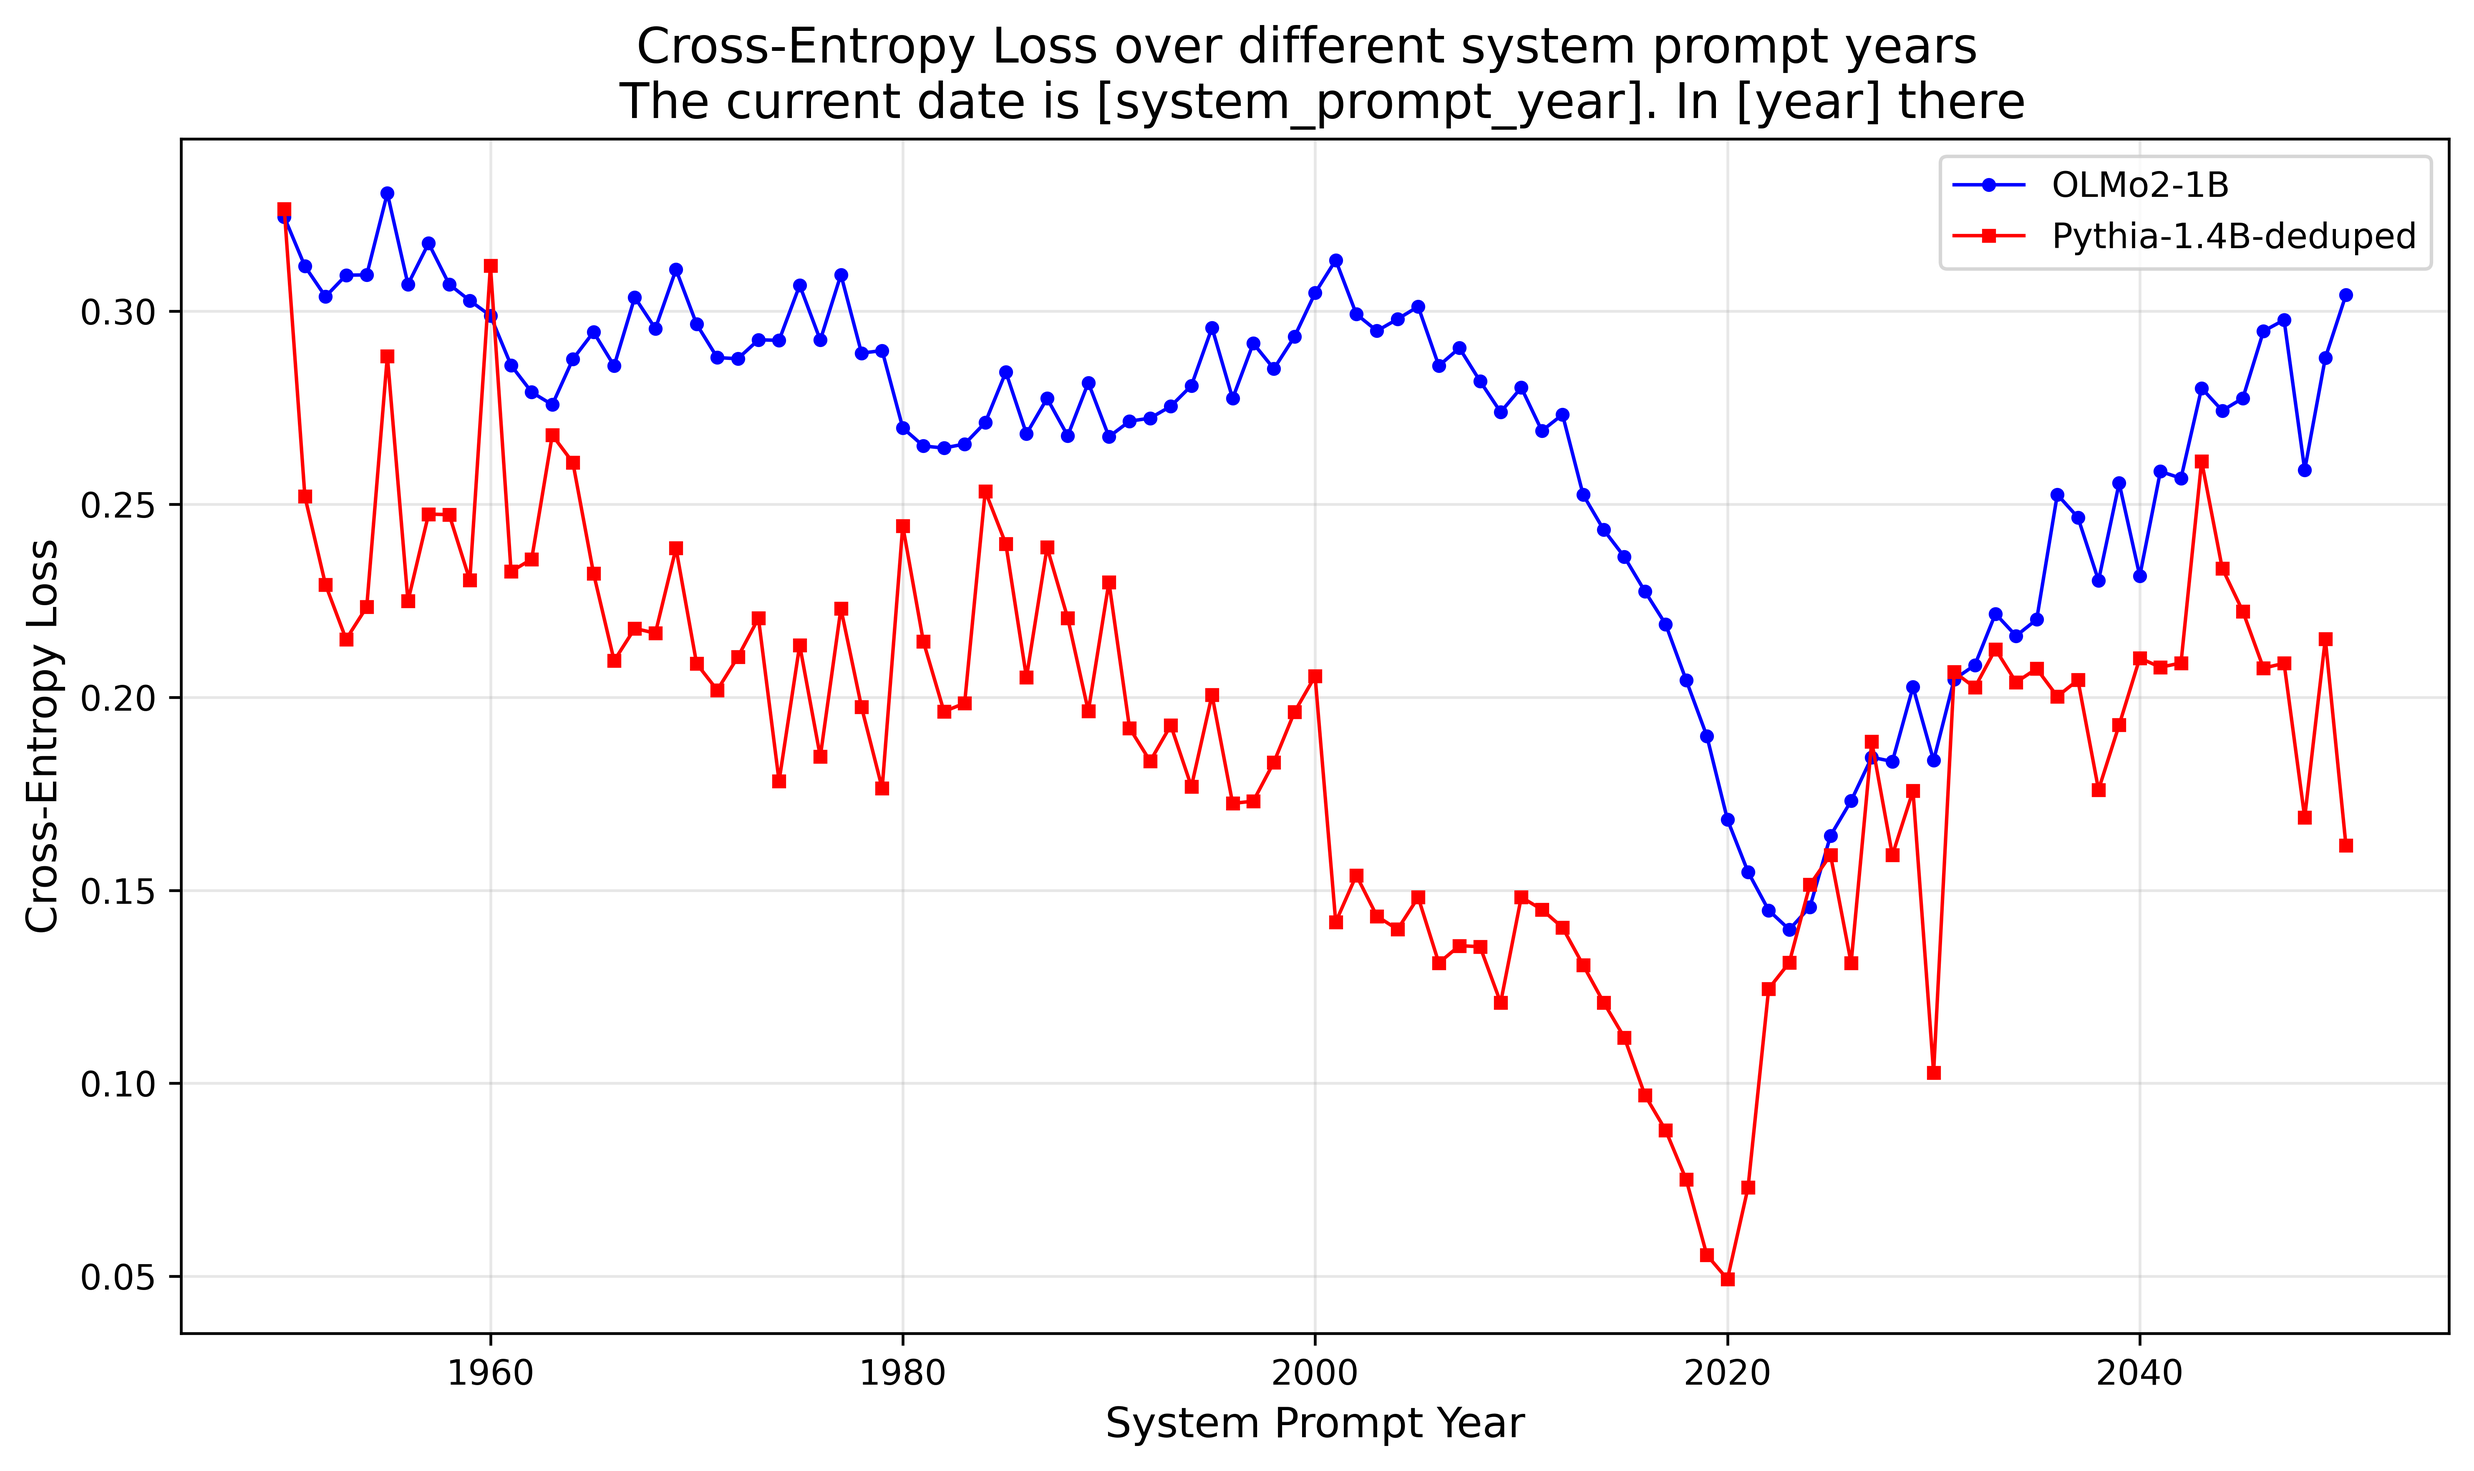
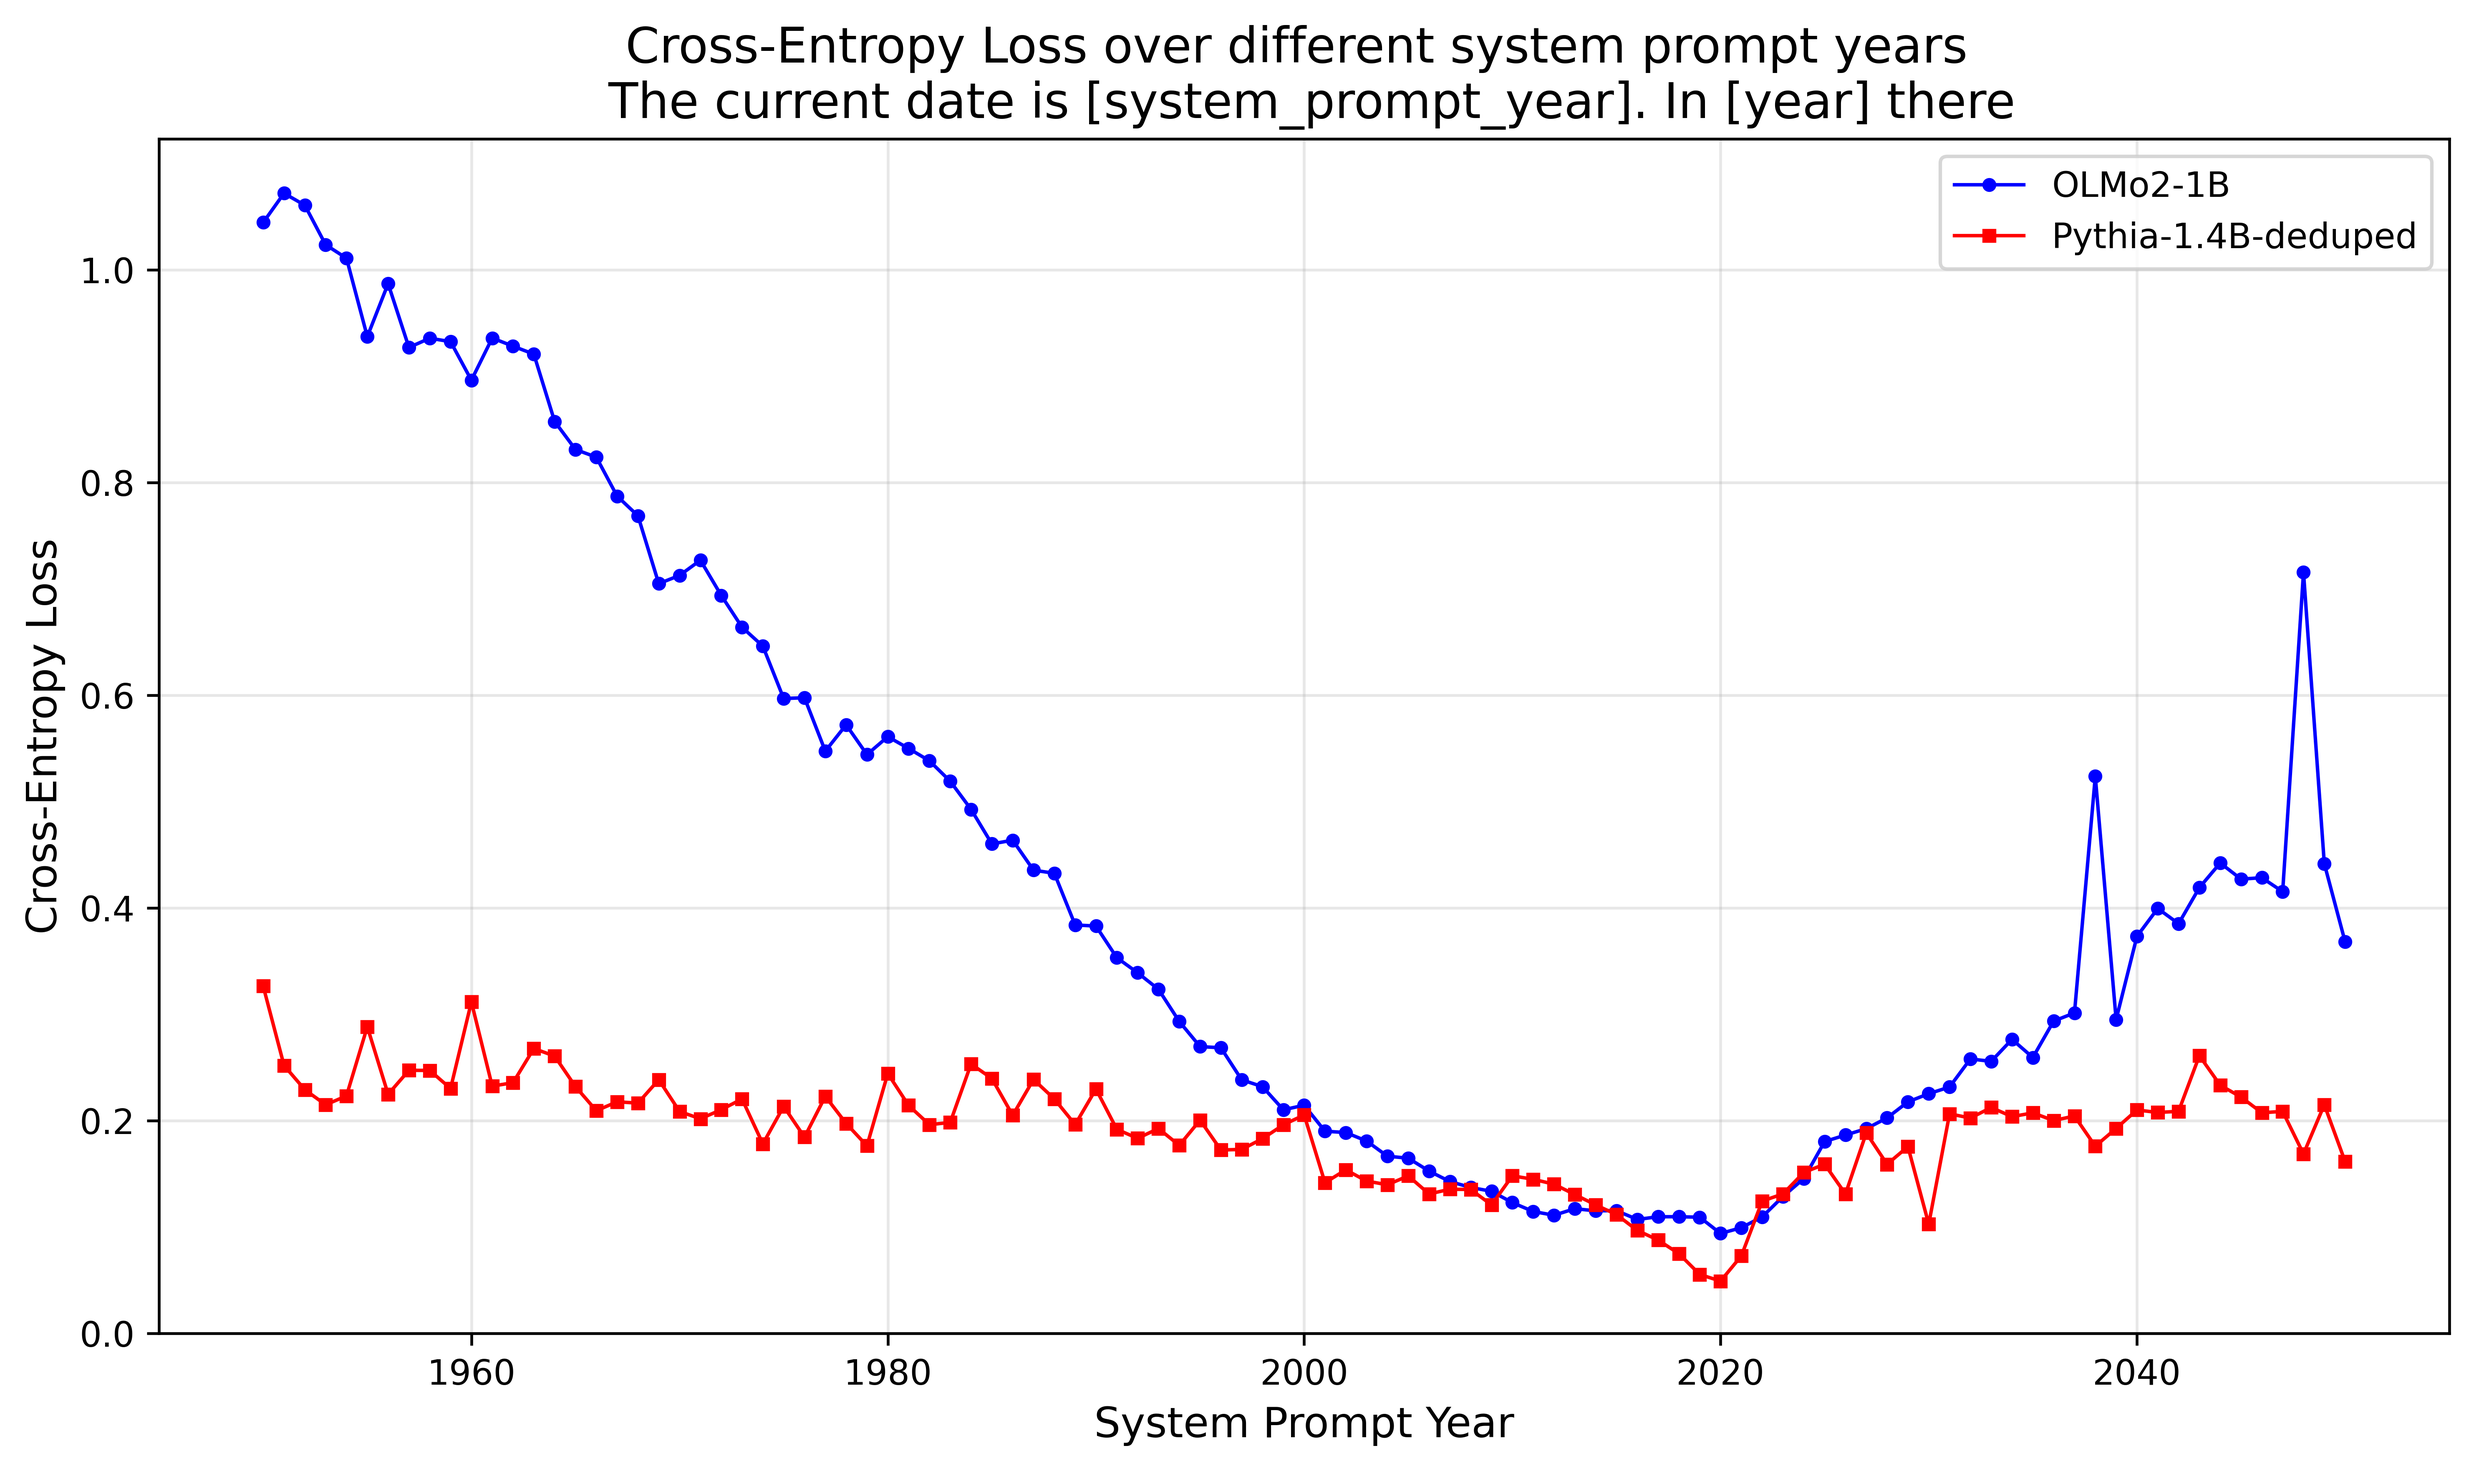
fixed CE over system prompts code

diff --git a/analyzer_class.py b/analyzer_class.py
@@ -368,28 +368,30 @@ class AnalyzerClass:
             results_absolute[cp] = year_to_counts_absolute
         return results_absolute
 
+    def populate_gold_distribution(self, cutoff):
+        gold_per_year = {}
+        for year in range(TOTAL_YEARS[0], TOTAL_YEARS[1]):
+            year_dist = {}
+            if year < cutoff:
+                year_dist = {"past": 1.0, "presfut": 0.0}
+            if year > cutoff:
+                year_dist = {"past": 0.0, "presfut": 1.0}
+            if year == cutoff:
+                continue
+            gold_per_year[str(year)] = year_dist
+        return gold_per_year
+
     def populate_gold_data(self):
-        def populate_gold_distribution(cutoff):
-            gold_per_year = {}
-            for year in range(TOTAL_YEARS[0], TOTAL_YEARS[1]):
-                year_dist = {}
-                if year < cutoff:
-                    year_dist = {"past": 1.0, "presfut": 0.0}
-                if year > cutoff:
-                    year_dist = {"past": 0.0, "presfut": 1.0}
-                if year == cutoff:
-                    continue
-                gold_per_year[str(year)] = year_dist
-            return gold_per_year
+        
 
 
         for cp in OLMO_CHECKPOINTS:
-            self.olmo_relative_gold_distribution[cp] = populate_gold_distribution(OLMO_CUTOFF)
+            self.olmo_relative_gold_distribution[cp] = self.populate_gold_distribution(OLMO_CUTOFF)
         for cp in PYTHIA_CHECKPOINTS:
-            self.pythia_relative_gold_distribution[cp] = populate_gold_distribution(PYTHIA_CUTOFF)
+            self.pythia_relative_gold_distribution[cp] = self.populate_gold_distribution(PYTHIA_CUTOFF)
         
-        self.olmo_relative_gold_distribution["final"] = populate_gold_distribution(OLMO_CUTOFF)
-        self.pythia_relative_gold_distribution["final"] = populate_gold_distribution(PYTHIA_CUTOFF)
+        self.olmo_relative_gold_distribution["final"] = self.populate_gold_distribution(OLMO_CUTOFF)
+        self.pythia_relative_gold_distribution["final"] = self.populate_gold_distribution(PYTHIA_CUTOFF)
 
 
     def _compute_laplace_smoothed_ngram(self, absolute_counts_per_cp):
@@ -764,12 +766,7 @@ class AnalyzerClass:
         
         # Ensure we have the right number of data points
         if len(ce_losses_olmo) != len(years) or len(ce_losses_pythia) != len(years):
-            print(f"Warning: Number of CE losses ({len(ce_losses_olmo)}, {len(ce_losses_pythia)}) doesn't match year range ({len(years)})")
-            # Truncate to minimum length
-            min_len = min(len(ce_losses_olmo), len(ce_losses_pythia), len(years))
-            years = years[:min_len]
-            ce_losses_olmo = ce_losses_olmo[:min_len]
-            ce_losses_pythia = ce_losses_pythia[:min_len]
+            raise ValueError(f"Number of CE losses ({len(ce_losses_olmo)}, {len(ce_losses_pythia)}) doesn't match year range ({len(years)})")
         
         # Plot the data
         ax.plot(years, ce_losses_olmo, label='OLMo2-1B', color='blue', marker='o', markersize=3, linewidth=1)
@@ -802,7 +799,7 @@ class AnalyzerClass:
         plt.close()
         print(f"Saved year prompts cross-entropy plot: {save_path}")
 
-    def compute_cross_entropy_over_range(self, dist_dict, model, checkpoint, year_start, year_end, allow_missing_data=False, specific_years=None):
+    def compute_cross_entropy_over_range(self, dist_dict, model, checkpoint, year_start, year_end, allow_missing_data=False, specific_years=None, gold_dist_year=None):
         """Compute cross-entropy loss between model predictions and gold labels.
         
         Args:
@@ -824,10 +821,16 @@ class AnalyzerClass:
         normalized_dist_dict = self._make_relative_distributions(dist_dict)
         
         # Get gold distribution for this model
-        if model == "olmo":
+        if gold_dist_year is not None:
+            gold_cp = self.populate_gold_distribution(gold_dist_year)
+            # this is a bit of a hack
+            cutoff = gold_dist_year
+        elif model == "olmo":
             gold_cp = self.olmo_relative_gold_distribution[checkpoint]
+            cutoff = OLMO_CUTOFF
         elif model == "pythia":
             gold_cp = self.pythia_relative_gold_distribution[checkpoint]
+            cutoff = PYTHIA_CUTOFF
         else:
             raise ValueError(f"Invalid model: {model}")
         
@@ -846,8 +849,7 @@ class AnalyzerClass:
             year_str = str(year)
             
             # Skip cutoff year
-            if ((model == "olmo" and year == OLMO_CUTOFF) or 
-                (model == "pythia" and year == PYTHIA_CUTOFF)):
+            if year == cutoff:
                 continue
                 
             if year_str not in gold_cp:

diff --git a/get_paper_results.py b/get_paper_results.py
@@ -149,17 +149,17 @@ def year_squared_prompts(analyzer):
     ce_over_system_prompt_years_olmo = []
     ce_over_system_prompt_years_pythia = []
     prompt_list = []
-    for year in range(1950, 2100 + 1):
+    for year in range(1950, 2050 + 1):
         prompt = f"The_current_date_is_{year}._In__year__there"
         prompt_list.append(prompt)
         prompt_preds = analyzer.load_other_prompts([prompt], models_for_prompts, all_verbs=False, wordboundary=False, stored_on_disk=True)
         
-        ce_for_system_prompt_year_olmo = analyzer.compute_cross_entropy_over_range(prompt_preds[prompt]["allenai_OLMo-2-0425-1B"], "olmo", "final", 1950, 2050)
+        ce_for_system_prompt_year_olmo = analyzer.compute_cross_entropy_over_range(prompt_preds[prompt]["allenai_OLMo-2-0425-1B"], "olmo", "final", 1950, 2050, gold_dist_year=year)
         ce_for_system_prompt_year_pythia = analyzer.compute_cross_entropy_over_range(prompt_preds[prompt]["EleutherAI_pythia-1.4b-deduped"], "pythia", "final", 1950, 2050)
         print(f"Calculated CE for {prompt} with OLMo: {ce_for_system_prompt_year_olmo['average_loss']} and Pythia: {ce_for_system_prompt_year_pythia['average_loss']}")
         ce_over_system_prompt_years_olmo.append(ce_for_system_prompt_year_olmo['average_loss'])
         ce_over_system_prompt_years_pythia.append(ce_for_system_prompt_year_pythia['average_loss'])
-    analyzer.plot_average_cross_entropies_across_year_prompts(ce_over_system_prompt_years_olmo, ce_over_system_prompt_years_pythia, 1950, 2100, "The current date is [system_prompt_year]. In [year] there")
+    analyzer.plot_average_cross_entropies_across_year_prompts(ce_over_system_prompt_years_olmo, ce_over_system_prompt_years_pythia, 1950, 2050, "The current date is [system_prompt_year]. In [year] there")
 
     
 
@@ -216,6 +216,18 @@ if __name__ == "__main__":
     # big_bar_plot_predictions_training_data(analyzer)
     year_squared_prompts(analyzer)
     # try_different_system_prompts(analyzer)
+
+    # models_for_prompts = ["allenai_OLMo-2-0425-1B", "EleutherAI_pythia-1.4b-deduped"]
+    # for year in [1960, 1990, 2010, 2040]:
+    #     prompt = f"The_current_date_is_{year}._In__year__there"
+    #     prompt_preds = analyzer.load_other_prompts([prompt], models_for_prompts, all_verbs=False, wordboundary=False, stored_on_disk=True)
+    #     data_type_with_prompt = f"{NEXT_TOKEN_NAME}\n{prompt}"
+    #     # plot them
+    #     for model_name in models_for_prompts:
+    #         analyzer.bar_plot(prompt_preds[prompt][model_name], model_name, data_type_with_prompt, "final", 1950, 2050, make_relative=False)
+        
+
+
 
 
     
